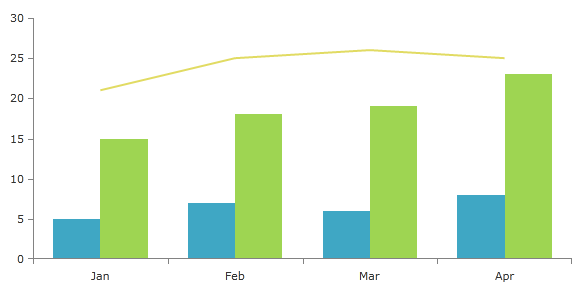
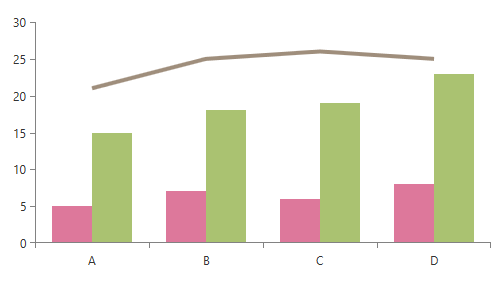
ChartView: Updated ChartSeriesProvider article.

Changed region(s): [[0.0, 0.0285, 0.996, 0.968], [0.1509, 0.1423, 0.8753, 0.3416]]

diff --git a/controls/radchartview/features/chartseriesprovider.md b/controls/radchartview/features/chartseriesprovider.md
@@ -101,202 +101,188 @@ In the following example, the chart is populated by a collection of 3 items, thu
 
 #### __[XAML] Example 2: A sample chart definition with its SeriesProvider set__
 {{region radchartview-features-chartseriesprovider_02}}
-	<telerik:RadCartesianChart x:Name="chart" Palette="Summer">
-	            
-	    <telerik:RadCartesianChart.HorizontalAxis>
-	        <telerik:CategoricalAxis></telerik:CategoricalAxis>
-	    </telerik:RadCartesianChart.HorizontalAxis>
-	            
-	    <telerik:RadCartesianChart.VerticalAxis>
-	        <telerik:LinearAxis HorizontalAlignment="Right"></telerik:LinearAxis>
-	    </telerik:RadCartesianChart.VerticalAxis>
-	            
-	    <telerik:RadCartesianChart.SeriesProvider>
-	        <telerik:ChartSeriesProvider Source="{Binding Data}">
-	            <telerik:ChartSeriesProvider.SeriesDescriptors>
-	
-	                <telerik:CategoricalSeriesDescriptor ItemsSourcePath="Data" ValuePath="Sales" CategoryPath="MonthName">
-	                    <telerik:CategoricalSeriesDescriptor.Style>
-	                        <Style TargetType="telerik:BarSeries">
-	                            <Setter Property="CombineMode" Value="Cluster" />
-	                        </Style>
-	                    </telerik:CategoricalSeriesDescriptor.Style>
-	                </telerik:CategoricalSeriesDescriptor>
-	
-	                <telerik:CategoricalSeriesDescriptor ItemsSourcePath="Data" ValuePath="Sales" CategoryPath="MonthName" CollectionIndex="2">
-	                    <telerik:CategoricalSeriesDescriptor.Style>
-	                        <Style TargetType="telerik:LineSeries">
-	                            <Setter Property="StrokeThickness" Value="2"/>
-	                        </Style>
-	                    </telerik:CategoricalSeriesDescriptor.Style>
-	                </telerik:CategoricalSeriesDescriptor>
-	                        
-	            </telerik:ChartSeriesProvider.SeriesDescriptors>
-	        </telerik:ChartSeriesProvider>
-	                
-	    </telerik:RadCartesianChart.SeriesProvider>
+	<telerik:RadCartesianChart Palette="Flower">
+		<telerik:RadCartesianChart.HorizontalAxis>
+			<telerik:CategoricalAxis />
+		</telerik:RadCartesianChart.HorizontalAxis>
+		<telerik:RadCartesianChart.VerticalAxis>
+			<telerik:LinearAxis />
+		</telerik:RadCartesianChart.VerticalAxis>
+
+		<telerik:RadCartesianChart.SeriesProvider>
+			<telerik:ChartSeriesProvider Source="{Binding Data}">
+				<telerik:ChartSeriesProvider.SeriesDescriptors>
+					<telerik:CategoricalSeriesDescriptor CategoryPath="Category" 
+															ValuePath="Value" 
+															ItemsSourcePath="Items" />
+					<telerik:CategoricalSeriesDescriptor CategoryPath="Category"
+															ValuePath="Value"
+															ItemsSourcePath="Items" 
+															CollectionIndex="2">
+						<telerik:CategoricalSeriesDescriptor.Style>
+							<Style TargetType="telerik:LineSeries">
+								<Setter Property="StrokeThickness" Value="4" />
+							</Style>
+						</telerik:CategoricalSeriesDescriptor.Style>
+					</telerik:CategoricalSeriesDescriptor>
+				</telerik:ChartSeriesProvider.SeriesDescriptors>
+			</telerik:ChartSeriesProvider>
+		</telerik:RadCartesianChart.SeriesProvider>
 	</telerik:RadCartesianChart>
 {{endregion}}
 
 #### __[C#] Example 3: The chart's view models set up__
 {{region radchartview-features-chartseriesprovider_03}}
-	public class SalesInfo 
-	{
-	    public string MonthName { get; set; }
-	    public double Sales { get; set; }
-	}
+	public class DataItem
+    {
+        public string Category { get; set; }
+
+        public double Value { get; set; }
+    }
 	
-	public class VendorYearlyData
-	{
-	    public string VendorName { get; set; }
-	    public ObservableCollection<SalesInfo> Data { get; set; }
-	}
+	public class SeriesViewModel
+    {
+        public string SeriesType { get; set; }
+
+        public ObservableCollection<DataItem> Items { get; set; }
+    }
 	
 	public class MainViewModel
-	{
-	    public ObservableCollection<VendorYearlyData> Data { get; set; }
-	
-	    public MainViewModel()
-	    {
-	        this.Data = GetSampleData();
-	    }
-	
-	    private ObservableCollection<VendorYearlyData> GetSampleData()
-	    {
-	        var result = new ObservableCollection<VendorYearlyData>();
-	
-	        result.Add(new VendorYearlyData()
-	        {
-	            VendorName = "Vendor A",
-	            Data = new ObservableCollection<SalesInfo>()
-	            {
-	                new SalesInfo() { MonthName = "Jan", Sales = 5 },
-	                new SalesInfo() { MonthName = "Feb", Sales = 7 },
-	                new SalesInfo() { MonthName = "Mar", Sales = 6 },
-	                new SalesInfo() { MonthName = "Apr", Sales = 8 }
-	            }
-	        });
-	
-	        result.Add(new VendorYearlyData()
-	        {
-	            VendorName = "Vendor B",
-	            Data = new ObservableCollection<SalesInfo>()
-	            {
-	                new SalesInfo() { MonthName = "Jan", Sales = 15 },
-	                new SalesInfo() { MonthName = "Feb", Sales = 18 },
-	                new SalesInfo() { MonthName = "Mar", Sales = 19 },
-	                new SalesInfo() { MonthName = "Apr", Sales = 23 }
-	            }
-	        });
-	
-	
-	        result.Add(new VendorYearlyData()
-	        {
-	            VendorName = "Vendor C",
-	            Data = new ObservableCollection<SalesInfo>()
-	            {
-	                new SalesInfo() { MonthName = "Jan", Sales = 21 },
-	                new SalesInfo() { MonthName = "Feb", Sales = 25 },
-	                new SalesInfo() { MonthName = "Mar", Sales = 26 },
-	                new SalesInfo() { MonthName = "Apr", Sales = 25 }
-	            }
-	        });
-	
-	        return result;
-	    }
-	}
+    {
+        public ObservableCollection<SeriesViewModel> Data
+        {
+            get;
+            set;
+        }
+
+        public MainViewModel()
+        {
+            this.Data = new ObservableCollection<SeriesViewModel>()
+            {
+                new SeriesViewModel()
+                {
+                    SeriesType = "Bar",
+                    Items = new ObservableCollection<DataItem>()
+                    {
+                        new DataItem() { Category = "A", Value = 5},
+                        new DataItem() { Category = "B", Value = 7},
+                        new DataItem() { Category = "C", Value = 6},
+                        new DataItem() { Category = "D", Value = 8}
+                    }
+                },
+                new SeriesViewModel()
+                {
+                    SeriesType = "Bar",
+                    Items = new ObservableCollection<DataItem>()
+                    {
+                        new DataItem() { Category = "A", Value = 15},
+                        new DataItem() { Category = "B", Value = 18},
+                        new DataItem() { Category = "C", Value = 19},
+                        new DataItem() { Category = "D", Value = 23}
+                    }
+                },
+                new SeriesViewModel()
+                {
+                    SeriesType = "Line",
+                    Items = new ObservableCollection<DataItem>()
+                    {
+                        new DataItem() { Category = "A", Value = 21},
+                        new DataItem() { Category = "B", Value = 25},
+                        new DataItem() { Category = "C", Value = 26},
+                        new DataItem() { Category = "D", Value = 25}
+                    }
+                }
+            };
+        }
+    }
 {{endregion}}
 
 #### __[VB.NET] Example 3: A sample chart definition with its SeriesProvider set__
 {{region radchartview-features-chartseriesprovider_04}}
-	Public Class SalesInfo
-		Public Property MonthName() As String
-		Public Property Sales() As Double
+	Public Class DataItem
+		Public Property Category() As String
+
+		Public Property Value() As Double
 	End Class
+
 	
-	Public Class VendorYearlyData
-		Public Property VendorName() As String
-		Public Property Data() As ObservableCollection(Of SalesInfo)
+	Public Class SeriesViewModel
+		Public Property SeriesType() As String
+
+		Public Property Items() As ObservableCollection(Of DataItem)
 	End Class
 	
 	Public Class MainViewModel
-		Public Property Data() As ObservableCollection(Of VendorYearlyData)
-	
+		Public Property Data() As ObservableCollection(Of SeriesViewModel)
+
 		Public Sub New()
-			Me.Data = GetSampleData()
+			Me.Data = New ObservableCollection(Of SeriesViewModel)() _
+				From {
+					New SeriesViewModel() With {
+						.SeriesType = "Bar",
+						.Items = New ObservableCollection(Of DataItem)() From {
+							New DataItem() With {
+								.Category = "A",
+								.Value = 5
+							},
+							New DataItem() With {
+								.Category = "B",
+								.Value = 7
+							},
+							New DataItem() With {
+								.Category = "C",
+								.Value = 6
+							},
+							New DataItem() With {
+								.Category = "D",
+								.Value = 8
+							}
+						}
+					},
+					New SeriesViewModel() With {
+						.SeriesType = "Bar",
+						.Items = New ObservableCollection(Of DataItem)() From {
+							New DataItem() With {
+								.Category = "A",
+								.Value = 15
+							},
+							New DataItem() With {
+								.Category = "B",
+								.Value = 18
+							},
+							New DataItem() With {
+								.Category = "C",
+								.Value = 19
+							},
+							New DataItem() With {
+								.Category = "D",
+								.Value = 23
+							}
+						}
+					},
+					New SeriesViewModel() With {
+						.SeriesType = "Line",
+						.Items = New ObservableCollection(Of DataItem)() From {
+							New DataItem() With {
+								.Category = "A",
+								.Value = 21
+							},
+							New DataItem() With {
+								.Category = "B",
+								.Value = 25
+							},
+							New DataItem() With {
+								.Category = "C",
+								.Value = 26
+							},
+							New DataItem() With {
+								.Category = "D",
+								.Value = 25
+							}
+						}
+					}
+				}
 		End Sub
-	
-		Private Function GetSampleData() As ObservableCollection(Of VendorYearlyData)
-			Dim result = New ObservableCollection(Of VendorYearlyData)()
-	
-			result.Add(New VendorYearlyData() With { _
-				.VendorName = "Vendor A", _
-				.Data = New ObservableCollection(Of SalesInfo)() With { _
-					New SalesInfo() With { _
-						.MonthName = "Jan", _
-						.Sales = 5 _
-					}, _
-					New SalesInfo() With { _
-						.MonthName = "Feb", _
-						.Sales = 7 _
-					}, _
-					New SalesInfo() With { _
-						.MonthName = "Mar", _
-						.Sales = 6 _
-					}, _
-					New SalesInfo() With { _
-						.MonthName = "Apr", _
-						.Sales = 8 _
-					} _
-				} _
-			})
-	
-			result.Add(New VendorYearlyData() With { _
-				.VendorName = "Vendor B", _
-				.Data = New ObservableCollection(Of SalesInfo)() With { _
-					New SalesInfo() With { _
-						.MonthName = "Jan", _
-						.Sales = 15 _
-					}, _
-					New SalesInfo() With { _
-						.MonthName = "Feb", _
-						.Sales = 18 _
-					}, _
-					New SalesInfo() With { _
-						.MonthName = "Mar", _
-						.Sales = 19 _
-					}, _
-					New SalesInfo() With { _
-						.MonthName = "Apr", _
-						.Sales = 23 _
-					} _
-				} _
-			})
-	
-			result.Add(New VendorYearlyData() With { _
-				.VendorName = "Vendor C", _
-				.Data = New ObservableCollection(Of SalesInfo)() With { _
-					New SalesInfo() With { _
-						.MonthName = "Jan", _
-						.Sales = 21 _
-					}, _
-					New SalesInfo() With { _
-						.MonthName = "Feb", _
-						.Sales = 25 _
-					}, _
-					New SalesInfo() With { _
-						.MonthName = "Mar", _
-						.Sales = 26 _
-					}, _
-					New SalesInfo() With { _
-						.MonthName = "Apr", _
-						.Sales = 25 _
-					} _
-				} _
-			})
-			
-			Return result
-		End Function
 	End Class
 {{endregion}}
 
